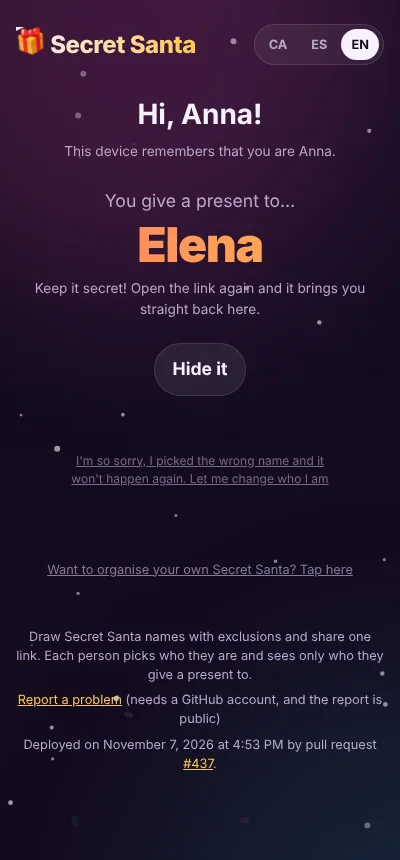
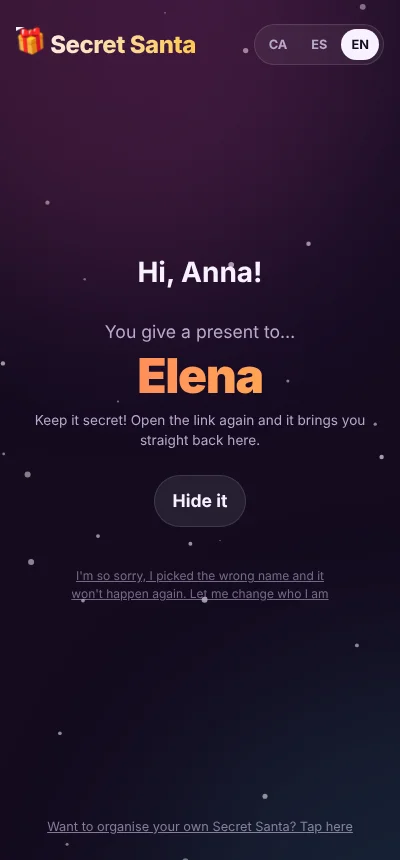
fix(secret-santa): a cleaner link page and the phone's share menu
The page a participant opens now has no footer, the present and the
answer sit in the middle of the screen, and "organise your own" sits at
the very bottom. The "this device remembers you" line is gone.

The share box opens the phone's own share menu, so any app works; a
browser without one still gets the WhatsApp link. The "Draw again" note
now says the old link keeps opening but its results will not match.

Claude-Session: https://claude.ai/code/session_011YsmyieWnzRgSvsJfhd3cV

diff --git a/web-projects/secret-santa/i18n.js b/web-projects/secret-santa/i18n.js
@@ -131,20 +131,20 @@ export const MESSAGES = {
   "share.messageLanguage": { ca: "Idioma del missatge", es: "Idioma del mensaje", en: "Message language" },
   "share.copyMessage": { ca: "Copiar el missatge", es: "Copiar el mensaje", en: "Copy the message" },
   "share.copied": {
-    ca: "Copiat! Ara enganxa'l al xat del grup, o envia'l directament:",
-    es: "¡Copiado! Ahora pégalo en el chat del grupo, o envíalo directamente:",
-    en: "Copied! Now paste it in the group chat, or send it straight away:",
+    ca: "Copiat! Ara enganxa'l al xat del grup, o comparteix-lo directament:",
+    es: "¡Copiado! Ahora pégalo en el chat del grupo, o compártelo directamente:",
+    en: "Copied! Now paste it in the group chat, or share it straight away:",
   },
   "share.copiedShort": { ca: "Copiat!", es: "¡Copiado!", en: "Copied!" },
   "share.whatsapp": { ca: "WhatsApp", es: "WhatsApp", en: "WhatsApp" },
-  "share.more": { ca: "Altres apps", es: "Otras apps", en: "Other apps" },
+  "share.native": { ca: "Compartir", es: "Compartir", en: "Share" },
   "share.edit": { ca: "Editar el sorteig", es: "Editar el sorteo", en: "Edit the draw" },
   "share.preview": { ca: "Provar-ho com a participant", es: "Probarlo como participante", en: "Try it as a participant" },
   "share.redraw": { ca: "Tornar a sortejar", es: "Volver a sortear", en: "Draw again" },
   "share.redrawNote": {
-    ca: "Tornar a sortejar canvia el resultat, i l'enllaç antic deixa de valer.",
-    es: "Volver a sortear cambia el resultado, y el enlace antiguo deja de valer.",
-    en: "Drawing again changes the result, and the old link stops matching.",
+    ca: "Tornar a sortejar crea un enllaç nou amb un altre resultat. L'enllaç antic continuarà obrint-se, però els seus resultats no quadraran amb els del nou. Envia només un dels dos al grup.",
+    es: "Volver a sortear crea un enlace nuevo con otro resultado. El enlace antiguo seguirá abriéndose, pero sus resultados no cuadrarán con los del nuevo. Envía solo uno de los dos al grupo.",
+    en: "Drawing again makes a new link with a different result. The old link still opens, but its results will not match the new one. Send only one of them to the group.",
   },
   "share.message": {
     ca: "🎁 {title}\nJa tenim el sorteig de l'amic invisible! Obre l'enllaç, toca el teu nom i descobreix a qui fas el regal. No miris el de ningú altre 🤫",
@@ -168,11 +168,6 @@ export const MESSAGES = {
   "receive.confirm": { ca: "Sí, soc {name}", es: "Sí, soy {name}", en: "Yes, I am {name}" },
   "receive.cancel": { ca: "No, tornar", es: "No, volver", en: "No, go back" },
   "receive.hello": { ca: "Hola, {name}!", es: "¡Hola, {name}!", en: "Hi, {name}!" },
-  "receive.remembered": {
-    ca: "Aquest dispositiu recorda que ets {name}.",
-    es: "Este dispositivo recuerda que eres {name}.",
-    en: "This device remembers that you are {name}.",
-  },
   "receive.tapGift": { ca: "Toca el regal per obrir-lo", es: "Toca el regalo para abrirlo", en: "Tap the present to open it" },
   "receive.giftLabel": { ca: "Obrir el regal", es: "Abrir el regalo", en: "Open the present" },
   "receive.youGiveTo": { ca: "Fas el regal a…", es: "Le haces el regalo a…", en: "You give a present to…" },

diff --git a/web-projects/secret-santa/style.css b/web-projects/secret-santa/style.css
@@ -89,7 +89,16 @@ a { color: var(--gold); }
   max-width: 640px;
   margin: 0 auto;
   padding: max(16px, env(safe-area-inset-top)) 16px max(24px, env(safe-area-inset-bottom));
+  min-height: 100svh;
+  display: flex;
+  flex-direction: column;
 }
+main { flex: 1; display: flex; flex-direction: column; }
+/* A participant sees no footer, and the receive view fills the screen: the
+   present and the answer sit in its middle, and "organise your own" sits at
+   the very bottom. */
+body.is-receive .footer { display: none; }
+.view.receive { flex: 1; display: flex; flex-direction: column; }
 
 .masthead {
   display: flex;
@@ -417,7 +426,7 @@ textarea.input::placeholder { white-space: nowrap; overflow: hidden; text-overfl
 
 .subtle-link { color: var(--muted); font-size: 0.85rem; }
 
-.create-own { margin: 72px 0 0; text-align: center; font-size: 0.8rem; opacity: 0.7; }
+.create-own { margin: auto 0 0; padding-top: 48px; text-align: center; font-size: 0.8rem; opacity: 0.7; }
 .create-own .subtle-link { font-size: inherit; }
 
 /* --- the warning dialog --------------------------------------------------- */
@@ -441,7 +450,7 @@ textarea.input::placeholder { white-space: nowrap; overflow: hidden; text-overfl
 
 /* --- receive: the present ------------------------------------------------- */
 
-.reveal { display: flex; flex-direction: column; align-items: center; text-align: center; padding-top: 8px; }
+.reveal { flex: 1; display: flex; flex-direction: column; align-items: center; justify-content: center; text-align: center; }
 .hello { font-size: clamp(1.6rem, 7vw, 2.3rem); margin: 0; }
 
 .gift {
@@ -535,7 +544,7 @@ textarea.input::placeholder { white-space: nowrap; overflow: hidden; text-overfl
 }
 #hide { margin-top: 24px; }
 /* Small and far down on purpose: changing who you are should take a moment. */
-.not-me { margin: 56px 0 0; max-width: 34ch; font-size: 0.75rem; opacity: 0.6; }
+.not-me { margin: 40px 0 0; max-width: 34ch; font-size: 0.75rem; opacity: 0.6; }
 .not-me .subtle-link { font-size: inherit; }
 
 /* --- footer --------------------------------------------------------------- */

diff --git a/web-projects/secret-santa/index.html b/web-projects/secret-santa/index.html
@@ -77,7 +77,6 @@
 
         <div id="receive-reveal" class="reveal" hidden>
           <h2 id="hello" class="hello"></h2>
-          <p id="remembered" class="hint center"></p>
           <p id="gift-hint" class="lead center" data-i18n="receive.tapGift">Tap the present to open it</p>
           <button type="button" id="gift" class="gift">
             <span class="sr-only" data-i18n="receive.giftLabel">Open the present</span>
@@ -174,8 +173,8 @@
             <div id="share-next" class="share-next" hidden>
               <p id="copied-text" data-i18n="share.copied">Copied! Now paste it in the group chat, or send it straight away:</p>
               <div class="share-buttons">
-                <a id="whatsapp" class="btn btn-whatsapp" href="#" target="_blank" rel="noopener"><span aria-hidden="true">🟢</span> <span data-i18n="share.whatsapp">WhatsApp</span></a>
-                <button type="button" id="share-native" class="btn btn-ghost" hidden><span aria-hidden="true">📤</span> <span data-i18n="share.more">Other apps</span></button>
+                <button type="button" id="share-native" class="btn btn-primary btn-big-ish" hidden><span aria-hidden="true">📤</span> <span data-i18n="share.native">Share</span></button>
+                <a id="whatsapp" class="btn btn-whatsapp" href="#" target="_blank" rel="noopener" hidden><span aria-hidden="true">🟢</span> <span data-i18n="share.whatsapp">WhatsApp</span></a>
               </div>
             </div>
           </div>

diff --git a/web-projects/secret-santa/app.js b/web-projects/secret-santa/app.js
@@ -122,6 +122,8 @@ function draftUrl() {
 }
 
 function render() {
+  // The receive view carries no footer: it holds only what a participant needs.
+  document.body.classList.toggle("is-receive", state.view === "receive");
   $("view-create").hidden = state.view !== "create";
   $("view-receive").hidden = state.view !== "receive";
   if (state.view === "create") renderCreate();
@@ -347,7 +349,11 @@ function renderShare() {
   link.textContent = message.slice(cut + 1);
   $("message-preview").replaceChildren(text, link);
   $("whatsapp").href = whatsappUrl(currentMessage());
-  $("share-native").hidden = typeof navigator.share !== "function";
+  // The phone's own share menu offers every app. A browser without one gets a
+  // WhatsApp link instead.
+  const canShare = typeof navigator.share === "function";
+  $("share-native").hidden = !canShare;
+  $("whatsapp").hidden = canShare;
 }
 
 async function copyText(text, fallbackInput) {
@@ -492,7 +498,6 @@ function renderReceive() {
   if (revealing) {
     const giver = Number($("receive-reveal").dataset.giver);
     $("hello").textContent = say("receive.hello", { name: event.names[giver] });
-    $("remembered").textContent = say("receive.remembered", { name: event.names[giver] });
   }
 }
 

diff --git a/web-projects/AGENTS.md b/web-projects/AGENTS.md
@@ -164,7 +164,7 @@ All new web-projects use TDD with [Bun's built-in test runner](https://bun.sh/do
 
 ## Existing Projects
 
-- **secret-santa** -- "Amic invisible": a Secret Santa draw shared as one link, in Catalan, Spanish and English (picked from the system language). A shared link opens a large, plain name list for anyone; the organiser's editor and share screen (copy the link, or a ready message in any of the three languages) hide behind a small link at the bottom. An optional note of up to 100 characters shows after the reveal. This device remembers who opened each draw, behind a small "let me change who I am" link. The organiser lists the people and taps who each one may not give to; the link carries the names, the exclusions and a fresh seed per draw, never the result, and every phone works out the same result from the event and the seed. A person picks their name, confirms through a warning that names them twice, and opens an animated present. Shuffles first so every valid draw is equally likely, with an exact search as the fallback for tight exclusions (TDD-covered pure modules, see secret-santa ADR 0001 and root ADR 0006, 0007 and 0013)
+- **secret-santa** -- "Amic invisible": a Secret Santa draw shared as one link, in Catalan, Spanish and English (picked from the system language). A shared link opens a large, plain name list for anyone; the organiser's editor and share screen (copy the link, or a ready message in any of the three languages, then the phone's share menu) hide behind a small link at the bottom. An optional note of up to 100 characters shows after the reveal. This device remembers who opened each draw, behind a small "let me change who I am" link. The organiser lists the people and taps who each one may not give to; the link carries the names, the exclusions and a fresh seed per draw, never the result, and every phone works out the same result from the event and the seed. A person picks their name, confirms through a warning that names them twice, and opens an animated present. Shuffles first so every valid draw is equally likely, with an exact search as the fallback for tight exclusions (TDD-covered pure modules, see secret-santa ADR 0001 and root ADR 0006, 0007 and 0013)
 - **terrain-print** -- Pick any area of the Moon, Mars or Earth on a Leaflet map and download closed meshes for a slicer: one tile, pieces that each fit the printer bed, or a jigsaw puzzle with seeded locking knobs, with an optional frame tray, as 3MF (one coloured object per part) or STL. Heights come from sources a browser can read directly (Esri LERC tile caches, USGS GeoTIFF files read row by row with range requests, AWS Terrain Tiles), at the coarsest level that still matches one model step; a tiled copy is calibrated against the NASA file first, because one stores the Moon doubled. Every model point is placed by an azimuthal projection around the selection centre, so poles print true; the sea floods to any level on Earth and Mars, and the colour plan gives the filament swap layers. The build runs in a worker; three.js draws the preview (TDD-covered pure modules, see terrain-print ADR 0001-0004 and root ADR 0006, 0007 and 0013)
 - **spanish-random-word** -- "Palabra al azar": a random everyday Spanish word from Spain, with its definition hidden behind a show/hide button. The word list (`words.js`, about 6,300 words, 53 KB) is built offline by `tools/buildWordList.js` from an OpenSubtitles frequency list and the Spanish Wiktionary dump; the definition of the one word on screen comes from the Wiktionary API at run time. One pure module, `wikitext.js`, decides both which words go in the list and which senses the page shows, so the two never disagree; it drops senses labelled old, cultured or rare and senses used only outside Spain. The word lives in the link (`?palabra=casa`) (TDD-covered pure modules, see spanish-random-word ADR 0001 and root ADR 0006 and 0013)
 - **ghana-ludo** -- Ludo with the Ghanaian house rules (back kick, side kick with its step back, home kick and the walk back out), each switchable by the host. Alone against greedy bots, with a second person on the host's phone, or online with friends through the shared `online-sync/` module: the phones pair with a QR code or a link and talk directly over WebRTC, the host applies every move, and a lost player sits back down with a new invite. The rules replicate `just-lads.com/ludo`, read as a spec and rewritten test-first, with seeded random full games checking the board invariants; `#demo` deals a fixed round in progress (TDD-covered pure modules, see ghana-ludo ADR 0001-0002 and root ADR 0013, 0016 and 0017)

diff --git a/web-projects/secret-santa/AGENTS.md b/web-projects/secret-santa/AGENTS.md
@@ -22,7 +22,8 @@ A Secret Santa draw shared as one link, in Catalan, Spanish and English. See `RE
 
 - **The draw output is permanent.** A shared link must give the same result on every phone, today and after any deploy. Never change the output of `drawAssignments`, `canonicalEvent`, `hashString` or `mulberry32`. A new draw needs a new link version `v`. See ADR 0001.
 - **The link never carries the result.** Only the title, the note, the names, the forbidden pairs and the seed. The title and the note are not part of the draw: an edit to them keeps the result.
-- **The receive view is for everyone, including older people.** It shows only the name list, the warning, the present and the note, in large type. It has no tabs. The organiser's view hides behind the small `#create-own` link at the bottom. Do not add controls to the receive view.
+- **The receive view is for everyone, including older people.** It shows only the name list, the warning, the present and the note, in large type. It has no tabs and no footer: `body.is-receive` hides the footer, so the "deployed at" line and the report link show only in the create view. The present and the answer sit in the vertical middle of the screen. The organiser's view hides behind the small `#create-own` link at the very bottom. Do not add controls to the receive view.
+- **The share button opens the phone's own share menu** (`navigator.share`), so the organiser can pick any app. A browser without that menu gets a WhatsApp link instead.
 - **People are numbered by list position.** A forbidden pair `[g, r]` means "g may not give to r". `editor.removePerson` renumbers the pairs after the removed person.
 - **The URL parameters:** `?e=` is a drawn event and opens the receive view. Any other address opens the create view. `?draft=` is the create view's draft: its seed is `-` until a draw happens, then the draw's seed, and a draft with a seed opens on the share screen.
 - **`#create-own` fills the editor from the link's event.** "Start over" (`#clear`) empties it, and asks for a second tap first.

diff --git a/web-projects/secret-santa/README.md b/web-projects/secret-santa/README.md
@@ -9,7 +9,7 @@ Draw Secret Santa names with exclusions and share one link. Each person picks th
 - Add people one by one or paste a whole list.
 - Tap who each person must not give to. Exclusions can work both ways, for couples.
 - Add an optional note of up to 100 characters (budget, date, place, a joke). It shows after the name is revealed.
-- "Make the link" opens a share screen: copy the link in one tap, or copy a ready-made message in Catalan, Spanish or English, then send it on WhatsApp or another app.
+- "Make the link" opens a share screen: copy the link in one tap, or copy a ready-made message in Catalan, Spanish or English, then send it through your phone's share menu, to any app.
 - One share link holds the whole event and a fresh seed for every draw. Every phone works out the same result, and the result itself is never in the link.
 - A warning names the person before anything is shown, so nobody spoils the surprise by mistake.
 - This device remembers who you are for each draw. Open the link again and you go straight to your own present. A small link at the bottom lets you change who you are if you picked the wrong name.
